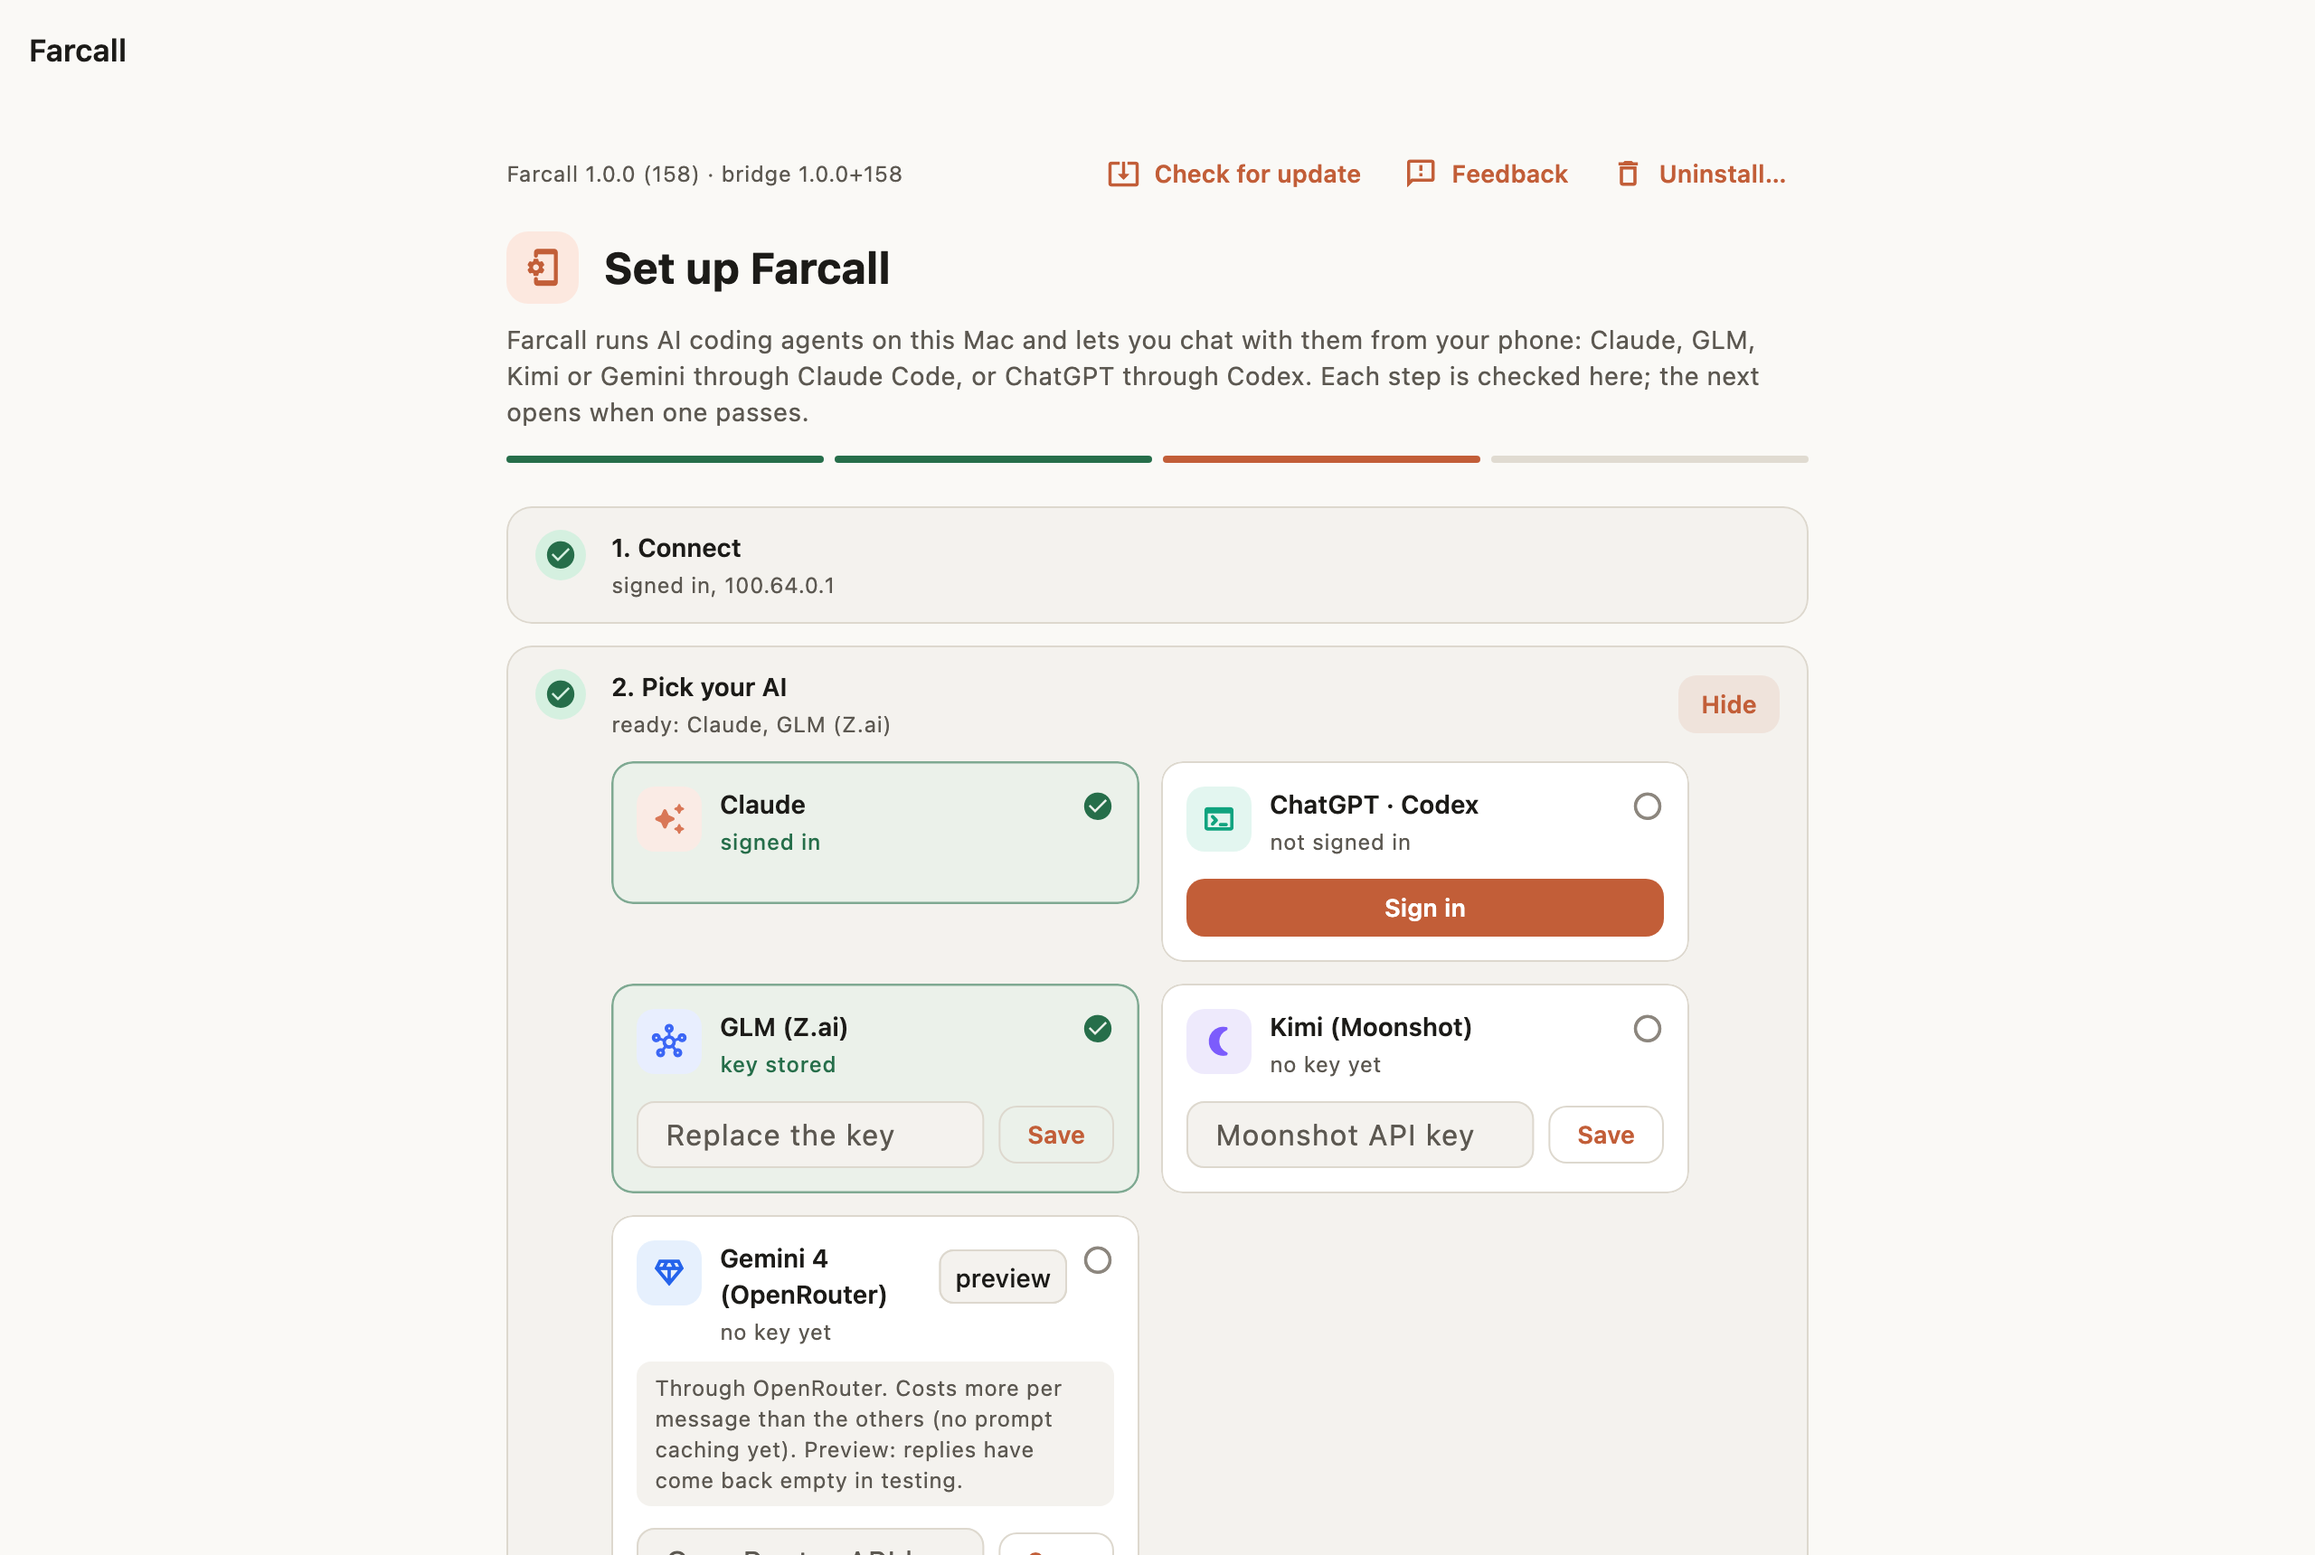
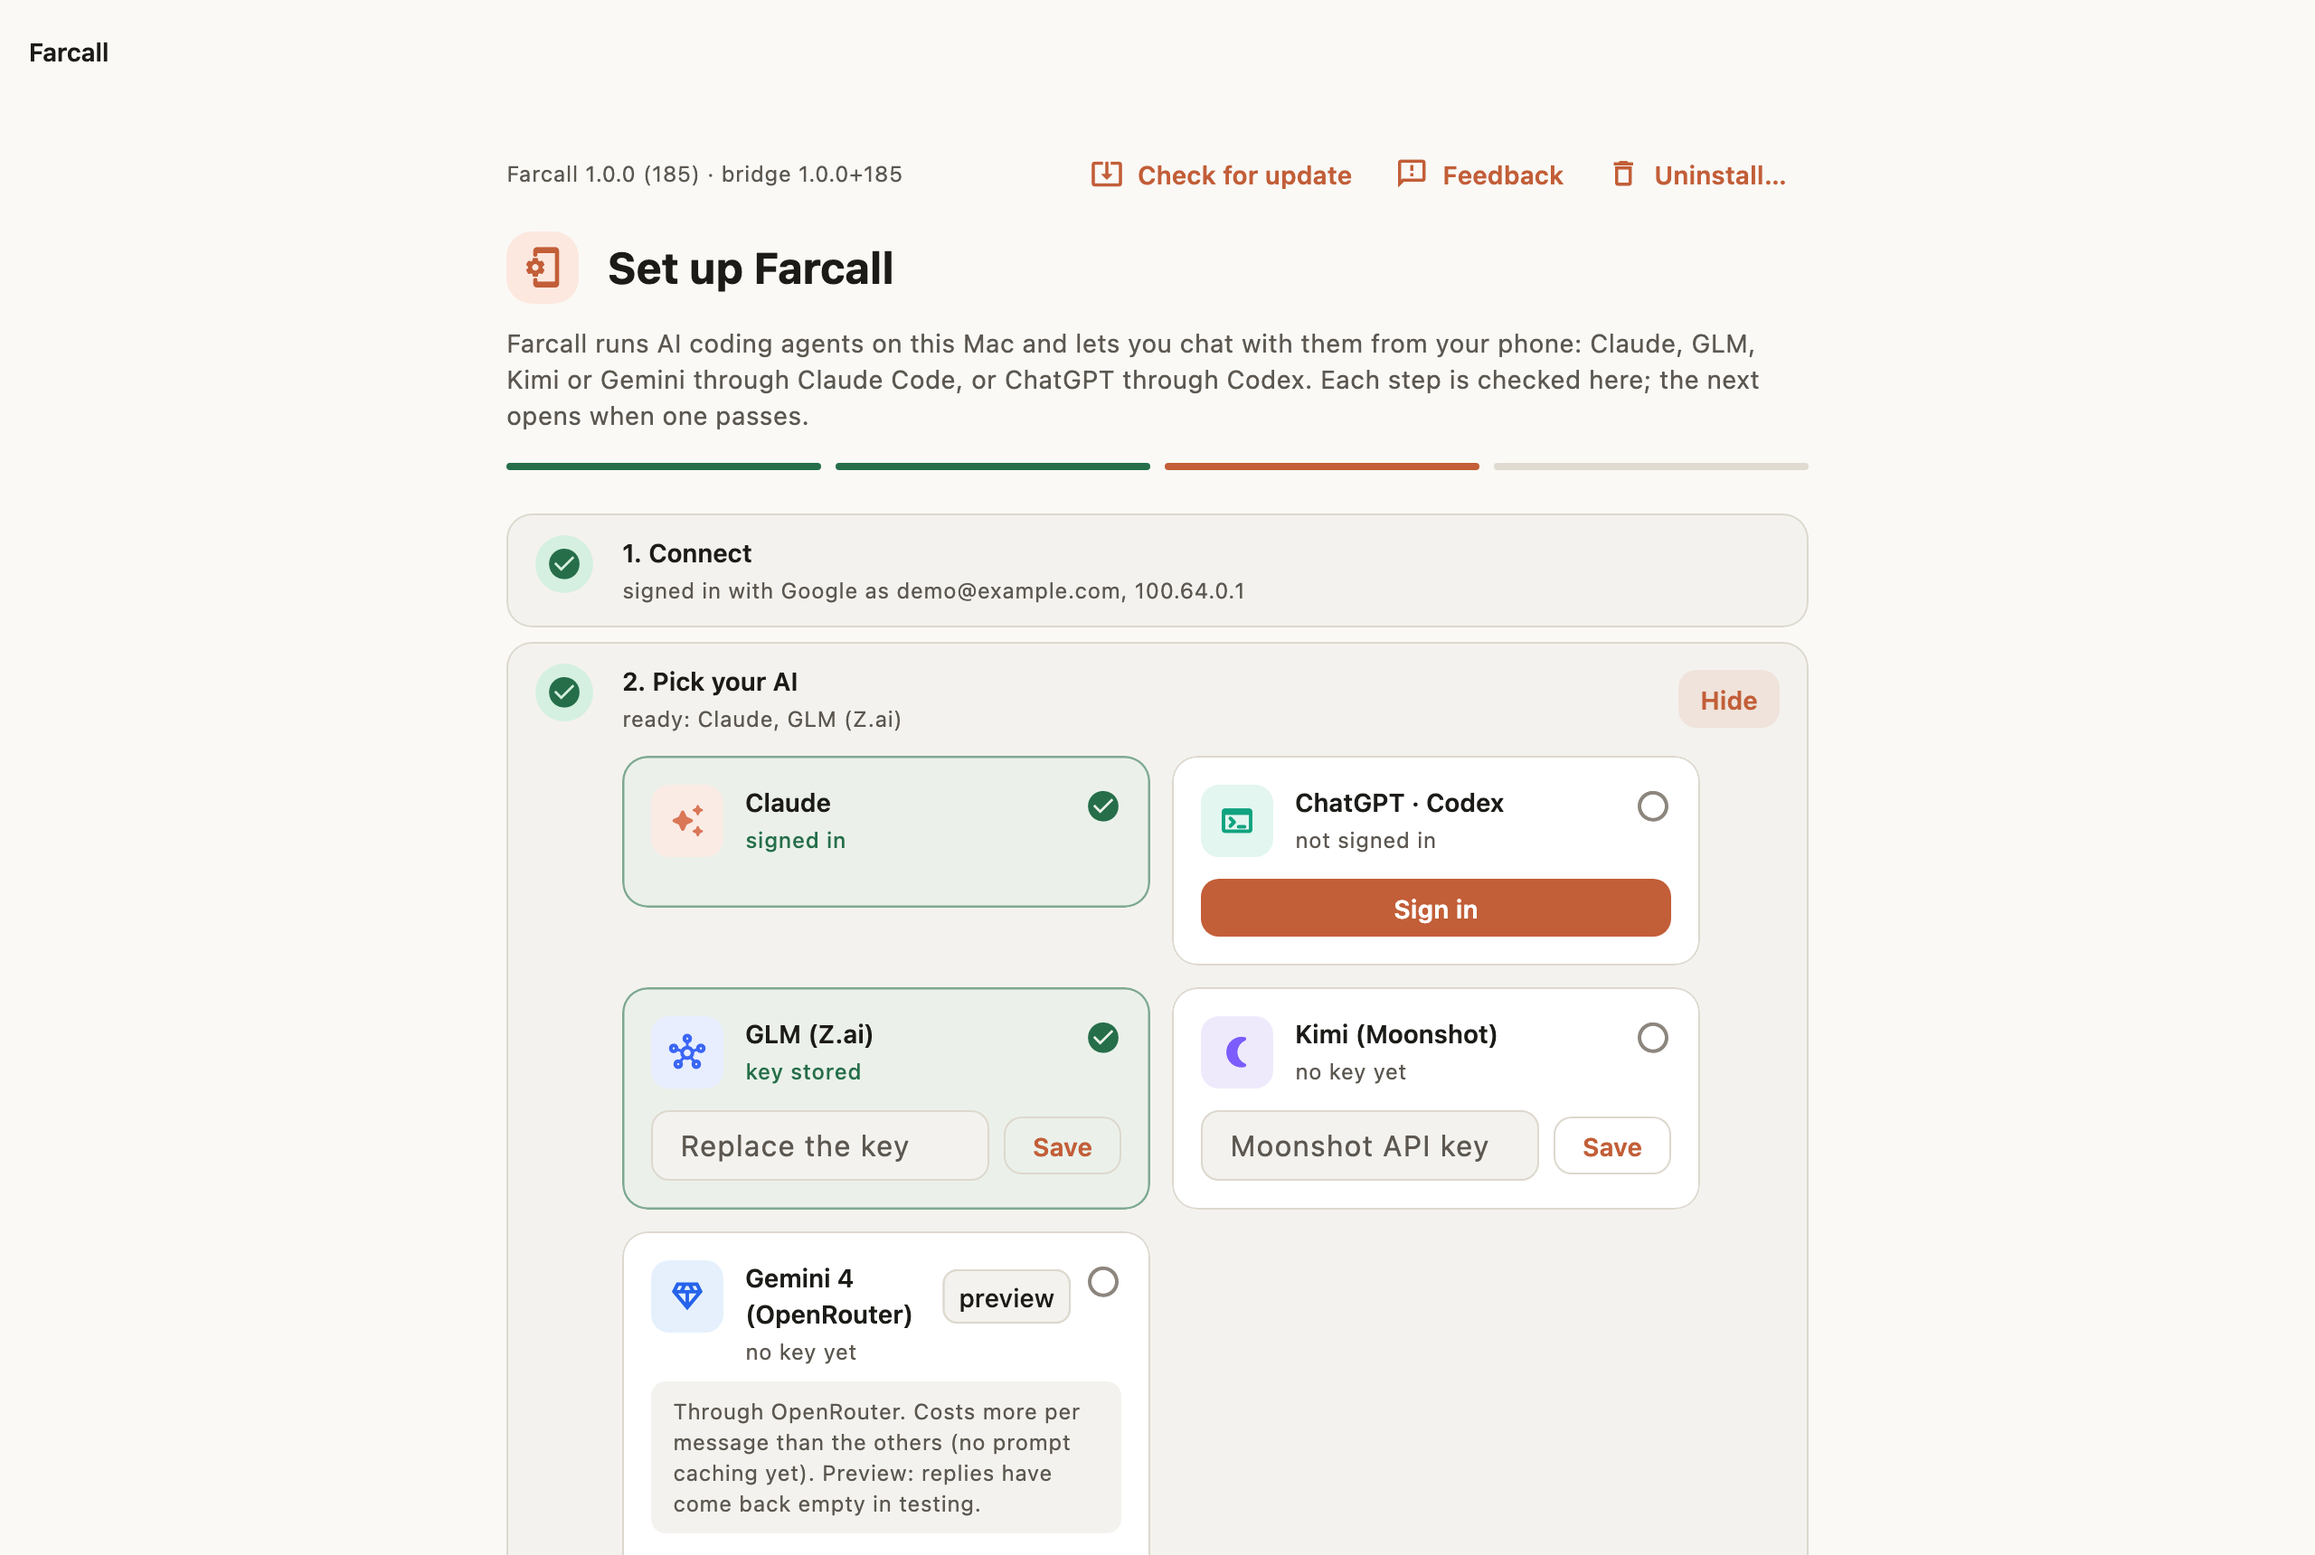
Site and README for 185: battery and language FAQ, Share app, screenshots from build 185
The setup shot showed build 158 and an address-only Connect line; all
twelve screenshots are regenerated from the 185 code (made-up data). New
FAQ: battery (Settings › Background connection) and languages (the phone
picks; the computer follows the system), also in the FAQ's JSON-LD.
README: Share app, Battery on the phone, Keep off, a removed phone cut
off within a minute.

diff --git a/index.html b/index.html
@@ -34,7 +34,7 @@
 </script>
 <link rel="stylesheet" href="/site.css">
 <script type="application/ld+json">
-{"@context": "https://schema.org", "@type": "FAQPage", "mainEntity": [{"@type": "Question", "name": "Can I use Claude Code from my phone?", "acceptedAnswer": {"@type": "Answer", "text": "Yes. Farcall runs Claude Code on your own computer and gives you a phone app to chat with it: start a session in a project, read replies as they stream, and approve or deny each command or file edit it wants to make."}}, {"@type": "Question", "name": "Does it work with Codex, GLM, Kimi or Gemini?", "acceptedAnswer": {"@type": "Answer", "text": "Yes. Claude Code can run on your Claude login, on Z.ai's GLM, on Moonshot's Kimi, or on Gemini through OpenRouter (preview); Codex runs on your OpenAI login (preview). You pick per session, and you can put two or three agents in one chat."}}, {"@type": "Question", "name": "Is my code sent to a server?", "acceptedAnswer": {"@type": "Answer", "text": "No. Your phone reaches your computer over a private, encrypted network built into Farcall. Farcall's server only signs your devices in and helps them find each other; your code and chats stay on your machines and your AI provider."}}, {"@type": "Question", "name": "What do I need?", "acceptedAnswer": {"@type": "Answer", "text": "A Mac (Apple Silicon), Windows PC or Linux machine to run the agent, an Android phone, and one AI: a Claude account, an API key for GLM, Kimi or OpenRouter, or Codex. Farcall's setup installs what is missing."}}, {"@type": "Question", "name": "Is there an iPhone app?", "acceptedAnswer": {"@type": "Answer", "text": "Not yet: the phone app is Android only for now."}}, {"@type": "Question", "name": "Is Farcall free?", "acceptedAnswer": {"@type": "Answer", "text": "Yes, Farcall itself is free to download. You pay your AI provider as you normally would."}}, {"@type": "Question", "name": "Does Farcall collect anything?", "acceptedAnswer": {"@type": "Answer", "text": "No chats, no files. Signing in keeps your Google email and your devices' names on Farcall's sign-in server. If the app crashes, a scrubbed crash report goes to Sentry, and under the same switch the app and the computer count their use under a random id. Both are on by default and switch off together in Settings."}}]}
+{"@context": "https://schema.org", "@type": "FAQPage", "mainEntity": [{"@type": "Question", "name": "Can I use Claude Code from my phone?", "acceptedAnswer": {"@type": "Answer", "text": "Yes. Farcall runs Claude Code on your own computer and gives you a phone app to chat with it: start a session in a project, read replies as they stream, and approve or deny each command or file edit it wants to make."}}, {"@type": "Question", "name": "Does it work with Codex, GLM, Kimi or Gemini?", "acceptedAnswer": {"@type": "Answer", "text": "Yes. Claude Code can run on your Claude login, on Z.ai's GLM, on Moonshot's Kimi, or on Gemini through OpenRouter (preview); Codex runs on your OpenAI login (preview). You pick per session, and you can put two or three agents in one chat."}}, {"@type": "Question", "name": "Is my code sent to a server?", "acceptedAnswer": {"@type": "Answer", "text": "No. Your phone reaches your computer over a private, encrypted network built into Farcall. Farcall's server only signs your devices in and helps them find each other; your code and chats stay on your machines and your AI provider."}}, {"@type": "Question", "name": "What do I need?", "acceptedAnswer": {"@type": "Answer", "text": "A Mac (Apple Silicon), Windows PC or Linux machine to run the agent, an Android phone, and one AI: a Claude account, an API key for GLM, Kimi or OpenRouter, or Codex. Farcall's setup installs what is missing."}}, {"@type": "Question", "name": "Is there an iPhone app?", "acceptedAnswer": {"@type": "Answer", "text": "Not yet: the phone app is Android only for now."}}, {"@type": "Question", "name": "Does it drain my phone's battery?", "acceptedAnswer": {"@type": "Answer", "text": "It keeps one connection to your computer open so approvals and replies reach you while Farcall is closed, and that uses some battery. If you would rather not, turn off Settings › Background connection: Farcall is then connected only while it is open, and you get no notifications while it is closed."}}, {"@type": "Question", "name": "Which languages does it speak?", "acceptedAnswer": {"@type": "Answer", "text": "English and Bengali. On the phone, pick one in Settings › Language; the computer's window follows your system language."}}, {"@type": "Question", "name": "Is Farcall free?", "acceptedAnswer": {"@type": "Answer", "text": "Yes, Farcall itself is free to download. You pay your AI provider as you normally would."}}, {"@type": "Question", "name": "Does Farcall collect anything?", "acceptedAnswer": {"@type": "Answer", "text": "No chats, no files. Signing in keeps your Google email and your devices' names on Farcall's sign-in server. If the app crashes, a scrubbed crash report goes to Sentry, and under the same switch the app and the computer count their use under a random id. Both are on by default and switch off together in Settings."}}]}
 </script>
 </head>
 <body>
@@ -249,7 +249,7 @@
         </div>
       </li>
       <li>Follow the setup in the Farcall window: Connect (sign in with Google), Pick your AI (sign in or paste a key), Projects folder, Connect your phone.</li>
-      <li>Install the Android app from the QR code in setup and sign in with the same Google account. Your computer shows up by itself: no code to type.</li>
+      <li>Install the Android app from the QR code in setup and sign in with the same Google account. Your computer shows up by itself: no code to type. To get a friend started, Settings › Share app sends them the app over WhatsApp or Bluetooth.</li>
     </ol>
   </section>
 
@@ -264,6 +264,8 @@
       <details><summary>Is my code sent to a server?</summary><p>No. Your phone reaches your computer over a private, encrypted network built into Farcall. Farcall's server only signs your devices in and helps them find each other; your code and chats stay on your machines and your AI provider.</p></details>
       <details><summary>What do I need?</summary><p>A Mac (Apple Silicon), Windows PC or Linux machine to run the agent, an Android phone, and one AI: a Claude account, an API key for GLM, Kimi or OpenRouter, or Codex. Farcall's setup installs what is missing.</p></details>
       <details><summary>Is there an iPhone app?</summary><p>Not yet: the phone app is Android only for now.</p></details>
+      <details><summary>Does it drain my phone's battery?</summary><p>It keeps one connection to your computer open so approvals and replies reach you while Farcall is closed, and that uses some battery. If you would rather not, turn off Settings › Background connection: Farcall is then connected only while it is open, and you get no notifications while it is closed.</p></details>
+      <details><summary>Which languages does it speak?</summary><p>English and Bengali. On the phone, pick one in Settings › Language; the computer's window follows your system language.</p></details>
       <details><summary>Is Farcall free?</summary><p>Yes, Farcall itself is free to download. You pay your AI provider as you normally would.</p></details>
       <details><summary>Does Farcall collect anything?</summary><p>No chats, no files. Signing in keeps your Google email and your devices' names on Farcall's sign-in server. If the app crashes, a scrubbed crash report goes to Sentry; and under the same switch the app and the computer count their use under a random id, so we can tell how many people use Farcall. Both are on by default and switch off together in Settings. Details on the <a href="/privacy/">privacy page</a>.</p></details>
     </div>

diff --git a/README.md b/README.md
@@ -135,6 +135,8 @@ You can read each script before running it: [install.sh](https://github.com/eamo
 
 **4. Sign in on the phone.** Open Farcall on the phone and tap **Sign in with Google**, with the same account as the computer. The computer shows up by itself; there is no code to type.
 
+To get a friend started, **Settings › Share app** on your phone sends them the app over WhatsApp, Bluetooth or anything else the share sheet offers. Farcall speaks English and Bengali: on the phone, **Settings › Language**; the computer's window follows your system language.
+
 That's it. On the phone, tap **Start a new session**, pick a project folder, and chat.
 
 ## Keep the computer awake
@@ -150,10 +152,14 @@ Turn off automatic sleep while it's plugged in:
 
 The screen can still turn off. Only the computer has to stay awake.
 
+## Battery on the phone
+
+So that approvals and replies reach you while Farcall is closed, the phone keeps one connection to your computer open, and that uses some battery. To save it, turn off **Settings › Background connection**: Farcall is then connected only while it is open, and sends no notifications while it is closed. The **Keep off** button on Farcall's notification does the same.
+
 ## Privacy and security
 
 - **Your work stays on your devices.** The phone reaches the computer over an end-to-end encrypted network. Farcall's sign-in server keeps your Google email and your devices' names, and never sees your chats, code or files. Details on the [privacy page](https://farcall.app/privacy/); sign out or delete your account from the phone's Settings.
-- **Your devices only.** The computer listens only on its private-network address and accepts only phones signed in to the same Google account.
+- **Your devices only.** The computer is reachable only through its private network and accepts only phones signed in to the same Google account. A phone you remove under **Settings › Devices on your Google account** is cut off within a minute.
 - **You approve each command.** By default the agent asks before it runs a command or edits a file, and the request comes to your phone. You can choose looser modes per session.
 - **Who makes it.** Made by MD Saiful Hossain ([@eamon831](https://github.com/eamon831)), who built Farcall to run his own Claude Code sessions from his phone. The source isn't public yet. Every build here is published with its SHA-256, and each installer checks it before installing, for your account only.
 - **Crash reports** are on by default and can be turned off any time (phone: Settings › Privacy; computer: **Check setup** in the Farcall window). They contain only the error and where in Farcall it happened, with folder names, network addresses and keys removed: never your chats or files. They go to [Sentry](https://sentry.io).
